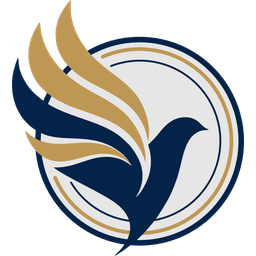
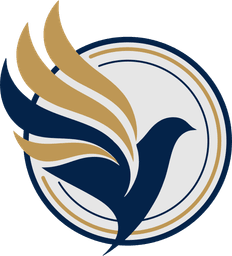
fix(web): align hero with the nav, two-line headline, un-warp the mark
Four fixes from the annotated screenshot.

**The header had no width cap.** Every section below it is capped at
84rem with matching gutters; the header spanned the full viewport, so on
a wide display the wordmark sat at the window edge while the headline
below it was inset. Same cap and gutters now, so the nav lines up with
the hero and the first feature card. The mobile menu's absolute offsets
are unchanged in value but now resolve against the header box rather
than the window, which is what they were always meant to mean.

**The headline ran to three lines.** It was sized clamp(2.5rem, 5.4vw,
4.1rem) against a hero column narrower than that needs, so "Scripture,
Study, and" wrapped before the explicit break. Reduced to
clamp(2.25rem, 4.4vw, 3.5rem) and the first line held on one line above
30rem — below that a phone would overflow horizontally, which §5 treats
as a failure rather than a preference, so it wraps naturally there.

**The preview column was too narrow**, at 0.92fr against the copy's
1.08fr. Now 1.22fr to 0.78fr, with the sidebar and Zedek panes widened
to use it.

**The mark was warped, and it was my bug.** I generated mark.png by
resizing the 2093x2309 original into a 256x256 box with `fit: contain`,
which letterboxed it with transparency. The Wordmark set `object-fit:
contain` and so looked right; the two <img> tags in the product preview
did not, so the browser stretched that letterboxed square into whatever
[…]

diff --git a/apps/web/components/landing/product-preview.tsx b/apps/web/components/landing/product-preview.tsx
@@ -86,7 +86,7 @@ export function ProductPreview() {
     >
       <PreviewTopBar />
 
-      <div style={{ display: 'flex', minHeight: '22rem' }}>
+      <div style={{ display: 'flex', minHeight: '24rem' }}>
         <PreviewSidebar />
         <PreviewScripture />
         <PreviewZedek />
@@ -108,7 +108,13 @@ function PreviewTopBar() {
       }}
     >
       <span style={{ display: 'inline-flex', alignItems: 'center', gap: '0.4rem' }}>
-        <img src="/mark.png" alt="" width={18} height={18} style={{ display: 'block' }} />
+        <img
+          src="/mark.png"
+          alt=""
+          width={16}
+          height={18}
+          style={{ display: 'block', objectFit: 'contain' }}
+        />
         <span
           style={{ fontFamily: 'var(--font-scripture)', fontSize: '0.92rem', color: '#172033' }}
         >
@@ -160,7 +166,7 @@ function PreviewSidebar() {
     <div
       className="scrinode-preview-sidebar"
       style={{
-        width: '8.5rem',
+        width: '9.5rem',
         flexShrink: 0,
         borderRight: '1px solid #e9e5dd',
         background: '#fbfaf7',
@@ -280,7 +286,7 @@ function PreviewZedek() {
     <div
       className="scrinode-preview-zedek"
       style={{
-        width: '15rem',
+        width: '16.5rem',
         flexShrink: 0,
         padding: '0.75rem 0.85rem',
         background: '#ffffff',
@@ -324,9 +330,12 @@ function PreviewZedek() {
         <img
           src="/mark.png"
           alt=""
-          width={18}
+          // 16x18, the mark's real 232:256 proportions. Square dimensions
+          // here stretched it — the bug visible as a smeared logo beside
+          // Zedek's reply.
+          width={16}
           height={18}
-          style={{ display: 'block', flexShrink: 0, marginTop: '0.1rem' }}
+          style={{ display: 'block', flexShrink: 0, marginTop: '0.1rem', objectFit: 'contain' }}
         />
         <p
           style={{

diff --git a/packages/ui/src/wordmark.tsx b/packages/ui/src/wordmark.tsx
@@ -25,6 +25,18 @@ export interface WordmarkProps {
   readonly style?: CSSProperties;
 }
 
+/**
+ * The mark's width relative to its height — 232:256.
+ *
+ * Not square, and assuming it was is what warped it. The asset was first
+ * generated by resizing the 2093x2309 original into a 256x256 box with
+ * `fit: contain`, which letterboxed it with transparency; anywhere the
+ * rendered `img` then omitted `object-fit`, the browser stretched that
+ * letterboxed square to whatever box it was given. The asset now carries the
+ * true bounding box, and every consumer derives width from height.
+ */
+const MARK_RATIO = 232 / 256;
+
 const TONES: Record<WordmarkTone, { name: string }> = {
   light: { name: '#f7f4ec' },
   dark: { name: '#172033' },
@@ -55,12 +67,17 @@ export function Wordmark({
       <img
         src="/mark.png"
         alt=""
-        width={size}
+        width={Math.round(size * MARK_RATIO)}
         height={size}
         // Decorative: the name beside it already says "Scrinode", and a screen
         // reader announcing both reads the brand twice (§32).
         aria-hidden="true"
-        style={{ display: 'block', width: size, height: size, objectFit: 'contain' }}
+        style={{
+          display: 'block',
+          width: Math.round(size * MARK_RATIO),
+          height: size,
+          objectFit: 'contain',
+        }}
       />
 
       {!markOnly && (

diff --git a/apps/web/components/landing/site-header.tsx b/apps/web/components/landing/site-header.tsx
@@ -40,6 +40,12 @@ export function SiteHeader() {
         alignItems: 'center',
         gap: '1.25rem',
         padding: '0.85rem clamp(1rem, 4vw, 2.75rem)',
+        // The same cap and gutters as every section below, so the wordmark
+        // lines up with the hero's headline and the feature grid's first card
+        // rather than drifting to the viewport edge on a wide display.
+        maxWidth: '84rem',
+        margin: '0 auto',
+        width: '100%',
       }}
     >
       <a href="/" style={{ textDecoration: 'none', flexShrink: 0 }} aria-label="Scrinode home">
@@ -155,10 +161,14 @@ export function SiteHeader() {
           aria-label="Primary, mobile"
           className="scrinode-mobile-nav"
           style={{
+            // Offsets are relative to the header, which is now a centred,
+            // width-capped box rather than the full viewport — so these match
+            // its own gutters instead of the window's.
             position: 'absolute',
             top: '100%',
             left: 'clamp(1rem, 4vw, 2.75rem)',
             right: 'clamp(1rem, 4vw, 2.75rem)',
+            zIndex: 30,
             display: 'flex',
             flexDirection: 'column',
             gap: '0.2rem',

diff --git a/apps/web/styles/globals.css b/apps/web/styles/globals.css
@@ -221,11 +221,12 @@
       display: none !important;
     }
 
-    /* The hero's two columns. The preview is given the larger share because
-       it carries three panes of its own; below this width it sits under the
-       copy at full width rather than being squeezed (§5). */
+    /* The hero's two columns. The preview takes the larger share because it
+       carries three panes of its own and each needs room to stay legible;
+       below this width it sits under the copy at full width rather than being
+       squeezed (§5). */
     .scrinode-hero {
-      grid-template-columns: minmax(0, 0.92fr) minmax(0, 1.08fr);
+      grid-template-columns: minmax(0, 0.78fr) minmax(0, 1.22fr);
     }
 
     .scrinode-vision {
@@ -238,6 +239,16 @@
 
     .scrinode-capability-grid {
       grid-template-columns: repeat(4, minmax(0, 1fr));
+    }
+  }
+
+  /* The headline's first line is held on one line only where there is room
+     for it. Below this a phone would overflow horizontally, which §5 treats
+     as a layout failure rather than a styling preference — so it wraps
+     naturally instead. */
+  @media (min-width: 30rem) {
+    .scrinode-headline-line {
+      white-space: nowrap;
     }
   }
 

diff --git a/apps/web/components/landing/hero.tsx b/apps/web/components/landing/hero.tsx
@@ -52,14 +52,20 @@ export function Hero() {
           <h1
             style={{
               fontFamily: 'var(--font-scripture)',
-              fontSize: 'clamp(2.5rem, 5.4vw, 4.1rem)',
-              lineHeight: 1.06,
+              // Sized so "Scripture, Study, and" fits one line in the hero's
+              // left column. The previous ceiling overflowed it into three
+              // lines, which broke the two-line shape the design relies on.
+              fontSize: 'clamp(2.25rem, 4.4vw, 3.5rem)',
+              lineHeight: 1.08,
               letterSpacing: '-0.02em',
               margin: '0 0 1.25rem',
               color: '#f7f4ec',
+              // The explicit <br> sets the break; this stops the first line
+              // wrapping again on its own at an awkward width.
+              textWrap: 'balance',
             }}
           >
-            Scripture, Study, and
+            <span className="scrinode-headline-line">Scripture, Study, and</span>
             <br />
             <span style={{ color: '#c9a961' }}>AI — Unified.</span>
           </h1>
